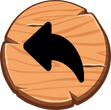
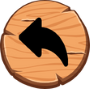
Resize return button and timer bar, change draw buf function

diff --git a/src/com/group19/gameobject/Dinosaur.java b/src/com/group19/gameobject/Dinosaur.java
@@ -195,10 +195,10 @@ public class Dinosaur extends GameObject {
         }
         if (System.currentTimeMillis() < timerBarEndTime) {
             timerBarAnimation.update(System.nanoTime());
-            timerBarAnimation.draw(30, 80, g2);
+            timerBarAnimation.draw(50, 130, g2);
         }
         if (currentBuffImage != null) {
-            g2.drawImage(currentBuffImage, 150, 80, 50, 50, null); // Vẽ ảnh buff bên cạnh timerbar
+            g2.drawImage(currentBuffImage, 35, 570, 70, 70, null); // Vẽ ảnh buff bên cạnh timerbar
         }
         //g2.setColor(Color.RED);  // Màu sắc của hitbox (đỏ)
         //g2.setStroke(new java.awt.BasicStroke(2));  // Độ dày của đường viền
